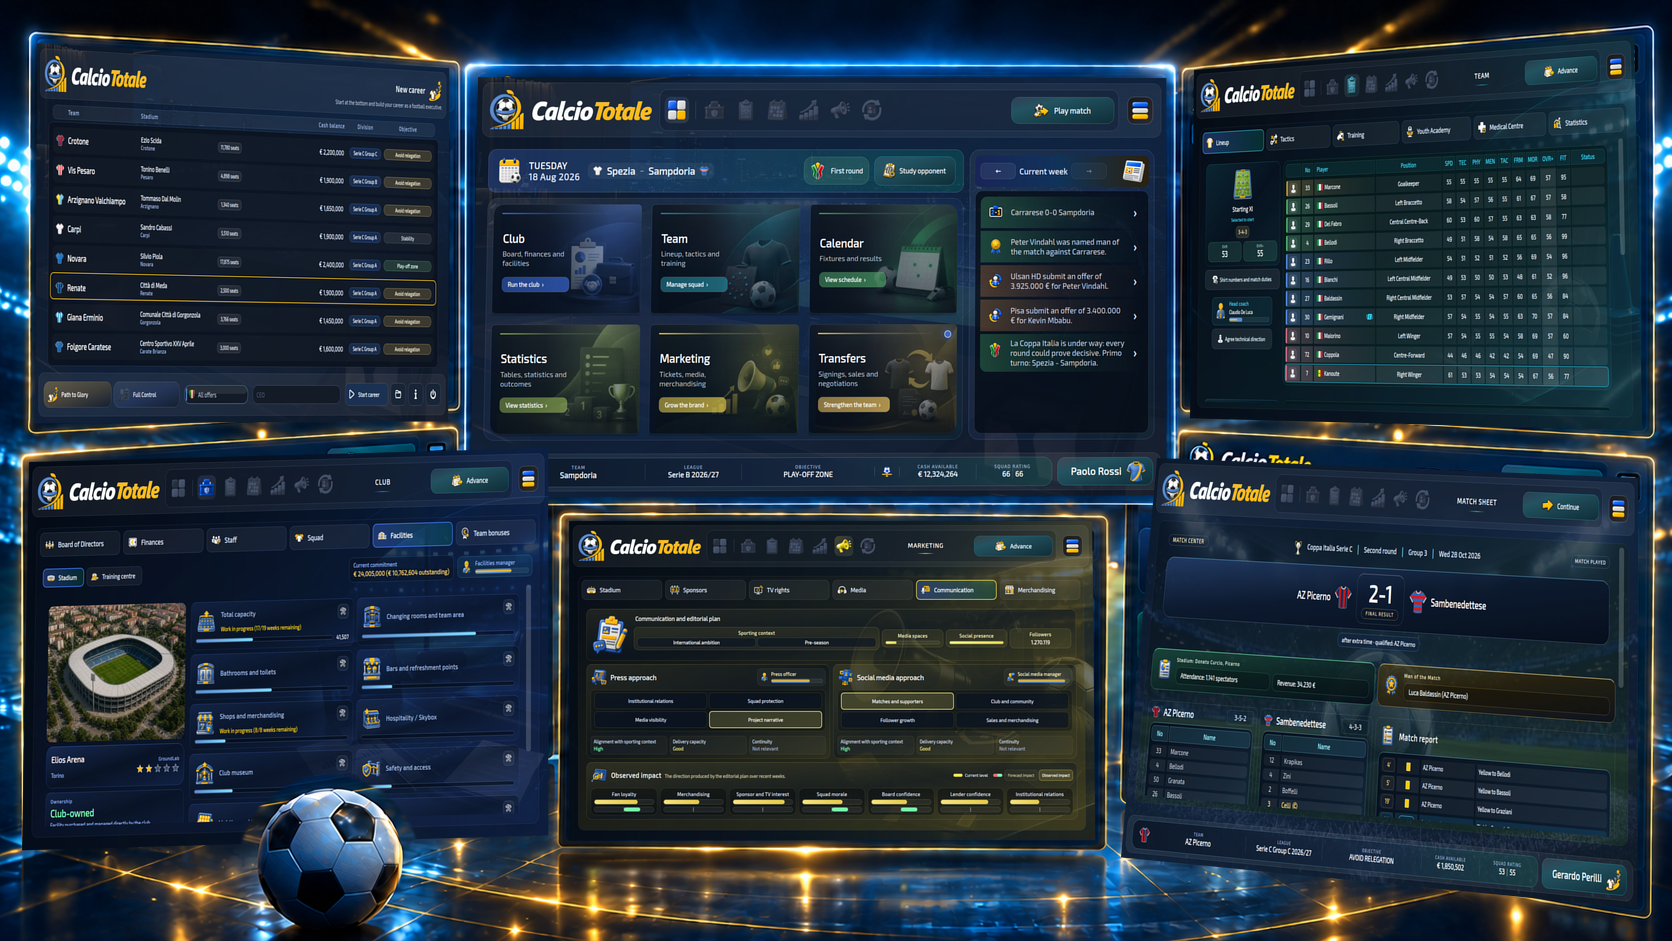
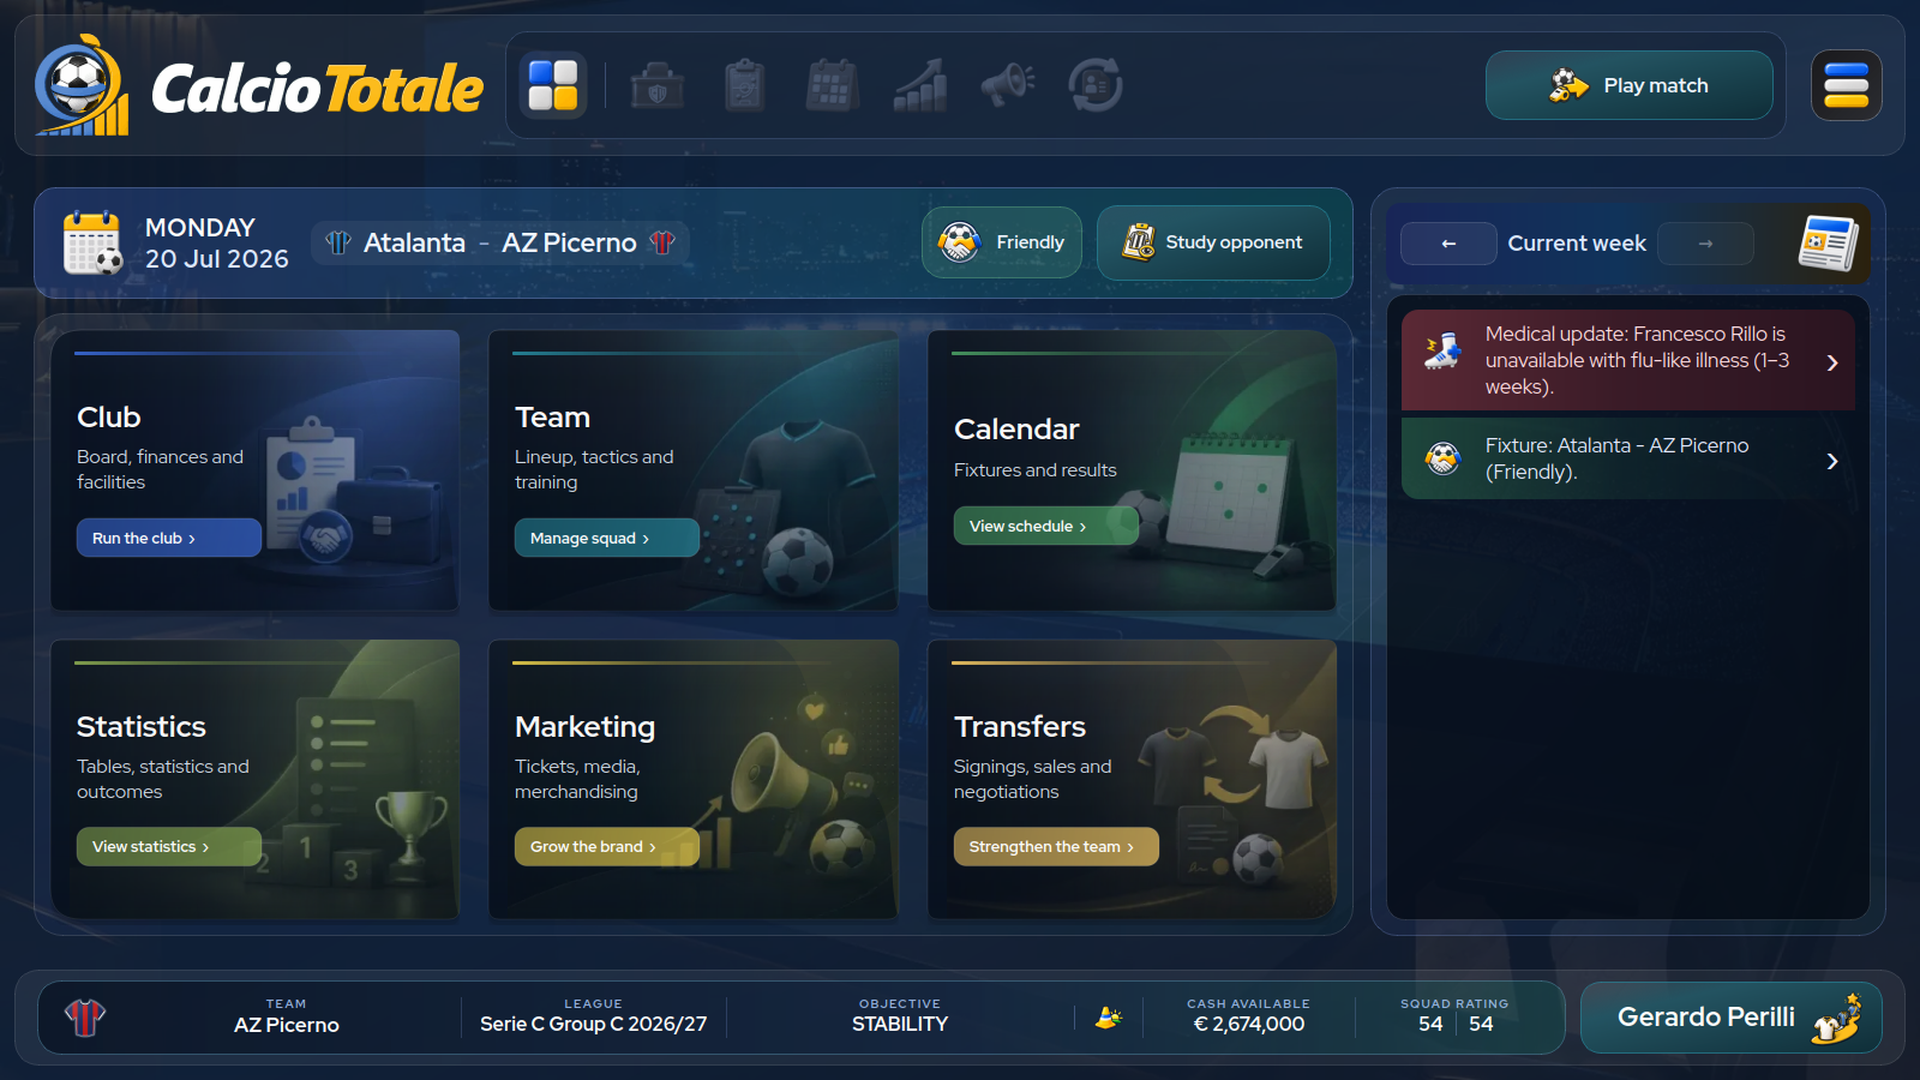
Refresh demo documentation and multilingual screenshots

diff --git a/README.es.md b/README.es.md
@@ -8,11 +8,11 @@
 
 ![Windows](https://img.shields.io/badge/Windows-x64-0078d4) ![Linux](https://img.shields.io/badge/Linux-x86__64-fcc624) ![Versión](https://img.shields.io/badge/versi%C3%B3n-1.0.2%20Demo-f6a91a)
 
-![Pantalla inicial de CalcioTotale, interfaz en inglés](assets/branding/screenshot_en.png)
+![Pantalla inicial de CalcioTotale en español](assets/branding/screenshot_es.png)
 
 ## Descargar la demo
 
-Paquetes actualizados el **29 de septiembre de 2026**. Descárgalos desde la [versión oficial 1.0.2](https://github.com/eleora-dev/calciototale/releases/tag/v1.0.2):
+Paquetes actualizados el **30 de septiembre de 2026**. Descárgalos desde la [versión oficial 1.0.2](https://github.com/eleora-dev/calciototale/releases/tag/v1.0.2):
 
 - [Windows 10/11 x64 — ZIP portátil](https://github.com/eleora-dev/calciototale/releases/download/v1.0.2/CalcioTotale-1.0.2-demo-windows-x64.zip)
 - [Linux x86_64 — archivo portátil](https://github.com/eleora-dev/calciototale/releases/download/v1.0.2/CalcioTotale-1.0.2-demo-linux-x86_64.tar.gz)

diff --git a/README.it.md b/README.it.md
@@ -12,7 +12,7 @@
 
 ## Scarica la demo
 
-Pacchetti aggiornati il **29 settembre 2026**. Scaricali dalla [release ufficiale 1.0.2](https://github.com/eleora-dev/calciototale/releases/tag/v1.0.2):
+Pacchetti aggiornati il **30 settembre 2026**. Scaricali dalla [release ufficiale 1.0.2](https://github.com/eleora-dev/calciototale/releases/tag/v1.0.2):
 
 - [Windows 10/11 x64 — ZIP portabile](https://github.com/eleora-dev/calciototale/releases/download/v1.0.2/CalcioTotale-1.0.2-demo-windows-x64.zip)
 - [Linux x86_64 — archivio portabile](https://github.com/eleora-dev/calciototale/releases/download/v1.0.2/CalcioTotale-1.0.2-demo-linux-x86_64.tar.gz)

diff --git a/README.md b/README.md
@@ -12,7 +12,7 @@
 
 ## Download the demo
 
-Packages updated **29 September 2026**. Download them from the [official 1.0.2 release](https://github.com/eleora-dev/calciototale/releases/tag/v1.0.2):
+Packages updated **30 September 2026**. Download them from the [official 1.0.2 release](https://github.com/eleora-dev/calciototale/releases/tag/v1.0.2):
 
 - [Windows 10/11 x64 — portable ZIP](https://github.com/eleora-dev/calciototale/releases/download/v1.0.2/CalcioTotale-1.0.2-demo-windows-x64.zip)
 - [Linux x86_64 — portable archive](https://github.com/eleora-dev/calciototale/releases/download/v1.0.2/CalcioTotale-1.0.2-demo-linux-x86_64.tar.gz)
